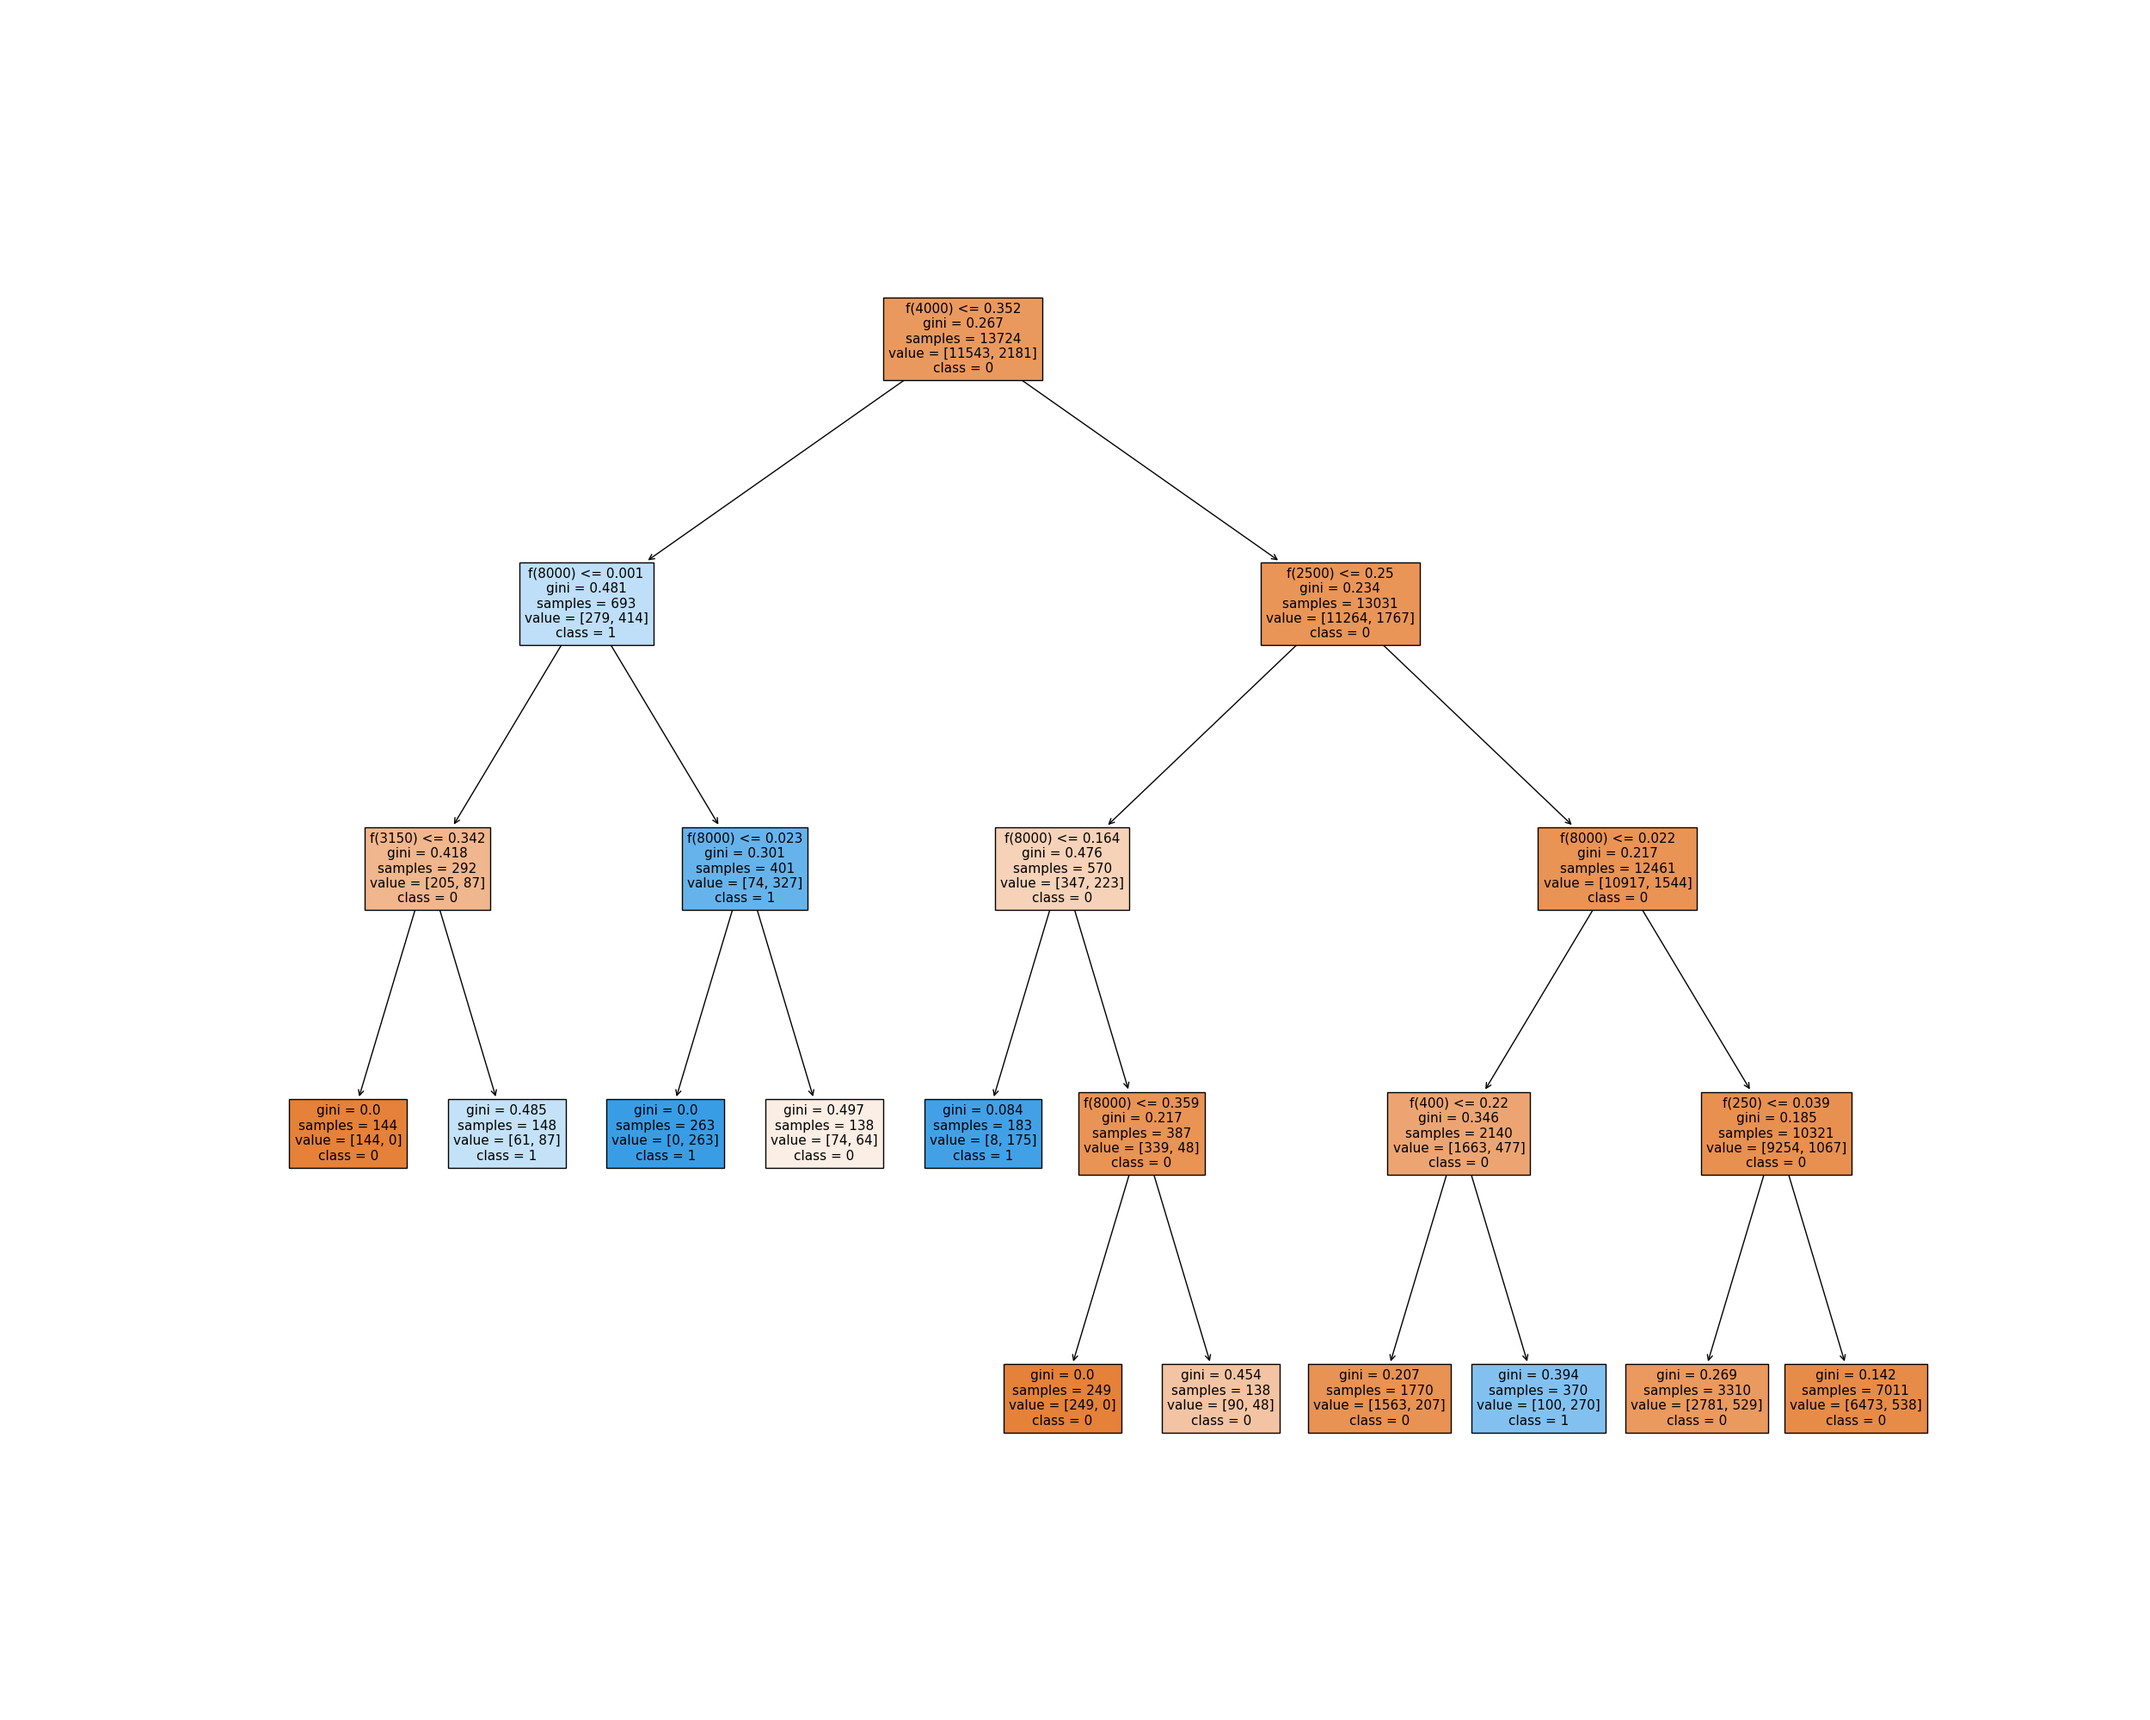
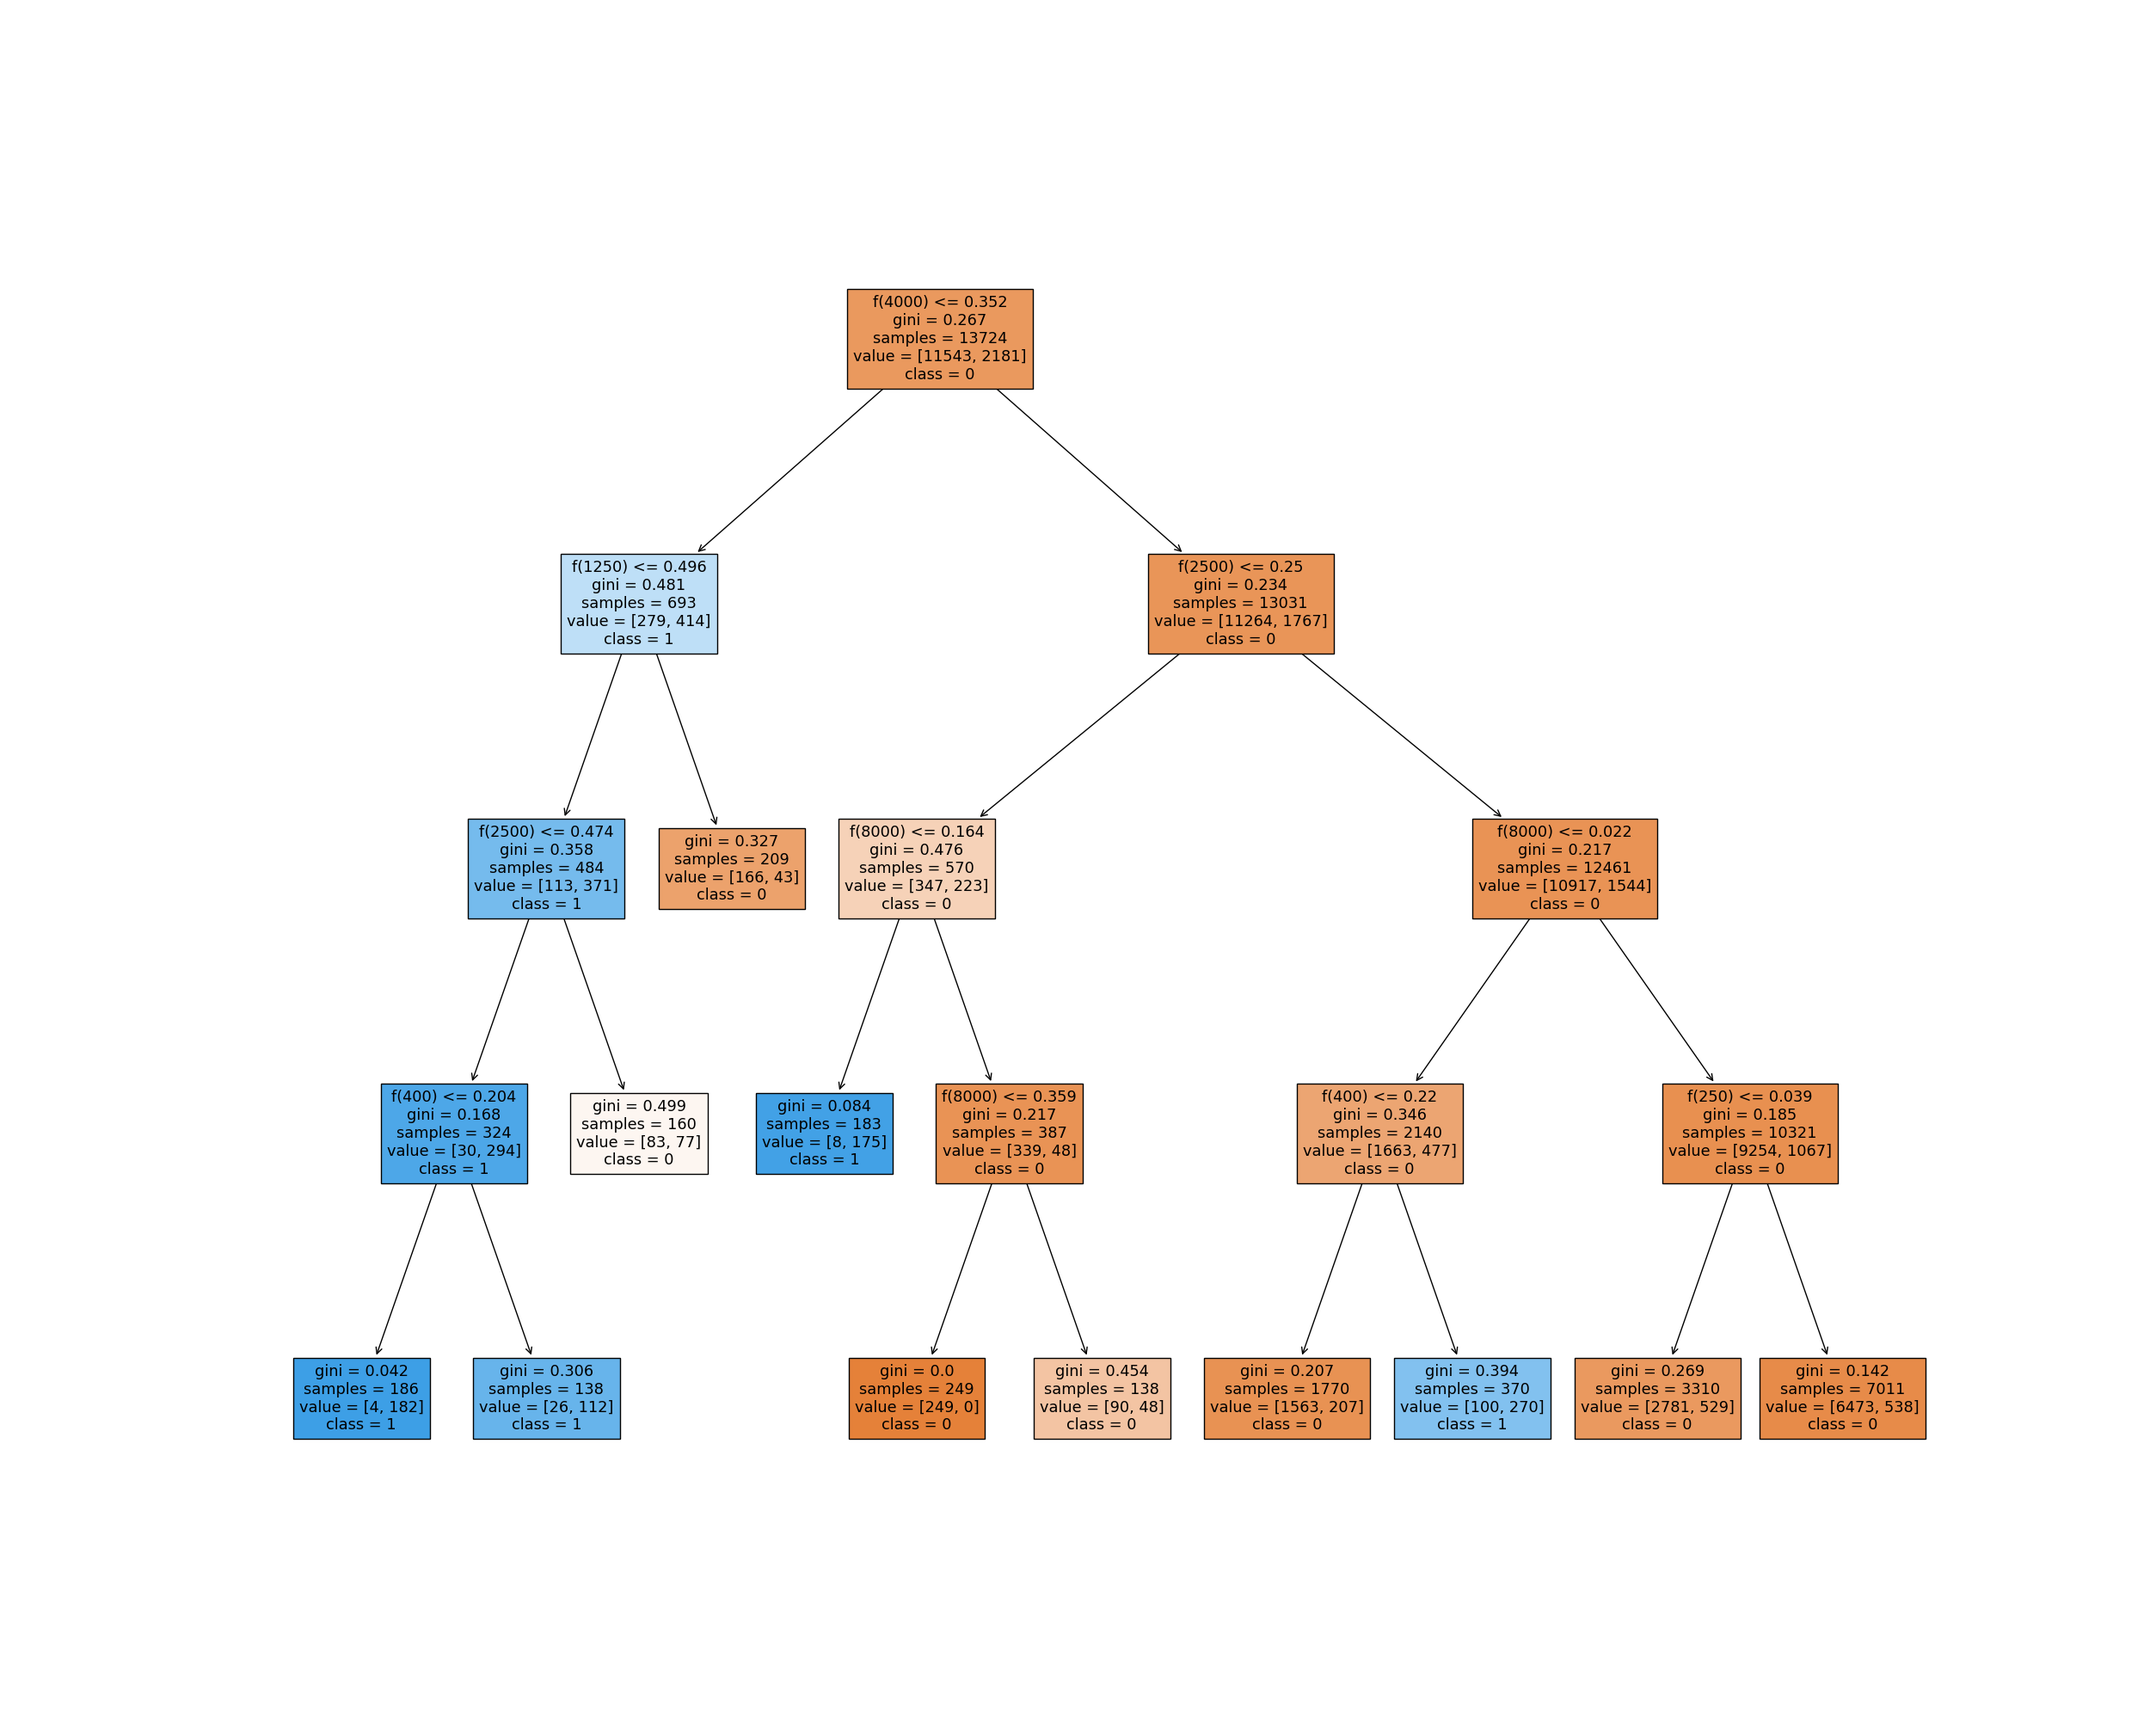
feature importances and tree update

diff --git a/daniel/modelling.py b/daniel/modelling.py
@@ -1,6 +1,8 @@
+import numpy as np
 from sklearn import tree
 import matplotlib.pyplot as plt
 from sklearn.tree import DecisionTreeClassifier
+from sklearn.model_selection import cross_validate
 import beluga
 from imblearn.over_sampling import SMOTE
 from tyty import pipeline
@@ -19,6 +21,17 @@ def predicting(trained_model, test_data):
     Performs predictions on the test set with the trained model
     """
     return trained_model.predict(test_data)
+
+
+def show_importances(model, train_data, threshold=0.0):
+    """ Returns the features that have an importance greater than the threshold """
+    importances = [
+        (feature, round(importance, 4))
+        for feature, importance in zip(train_data.columns, model.feature_importances_)
+        if importance > threshold
+    ]
+    importances.sort(key=lambda x: x[1], reverse=True)
+    return [imp[0] for imp in importances]
 
 
 def save_tree(trained_model, features, path):
@@ -44,6 +57,12 @@ def run_decision_tree(features, all_freq, depth, splits, leaves, pressure, smote
         min_samples_split=splits,
         min_samples_leaf=leaves,
     )
+    scores = cross_validate(
+        model, train_data, train_labels, cv=10, return_train_score=True
+    )
+    print(np.mean(scores["train_score"]))
+    print(np.mean(scores["test_score"]))
+
     train_pred, test_pred, trained_model = pipeline.modelling_pipeline(
         model, train_data, train_labels, test_data
     )
@@ -54,15 +73,9 @@ def run_decision_tree(features, all_freq, depth, splits, leaves, pressure, smote
     beluga.metrics.summary(test_labels, test_pred, conditions=True)
     save_tree(trained_model, train_data.columns, path=path)
 
-    importances = [
-        (feature, round(importance, 4))
-        for feature, importance in zip(
-            train_data.columns, trained_model.feature_importances_
-        )
-        if importance > 0.0
-    ]
+    new_features = show_importances(trained_model, train_data)
+
     print("--- IMPORTANCES ---")
-    print(sorted(importances, key=lambda x: x[1], reverse=True))
-    new_features = [imp[0] for imp in importances]
+    print(new_features)
 
     return trained_model, new_features

diff --git a/daniel/develop.py b/daniel/develop.py
@@ -9,23 +9,23 @@ pd.set_option("display.max_rows", None)
 np.random.seed(24)
 
 trained_model, new_features = modelling.run_decision_tree(
-    ["Gender"],
-    all_freq=True,
-    depth=4,
+    ["f(8000)", "f(4000)", "f(1250)", "f(400)", "f(2500)"],
+    all_freq=False,
+    depth=5,
     splits=0.01,
     leaves=0.01,
     pressure=False,
     smote=False,
-    path="daniel/decision_treeSMOTE.png",
+    path="daniel/decision_treeSMOTE_5.png",
 )
-for i in range(3):
-    trained_model, new_features = modelling.run_decision_tree(
-        new_features,
-        all_freq=False,
-        depth=4,
-        splits=0.01,
-        leaves=0.01,
-        pressure=False,
-        smote=False,
-        path="daniel/decision_treeSMOTE" + str(i) + ".png",
-    )
+# for i in range(3):
+#     trained_model, new_features = modelling.run_decision_tree(
+#         new_features,
+#         all_freq=False,
+#         depth=4,
+#         splits=0.01,
+#         leaves=0.01,
+#         pressure=False,
+#         smote=False,
+#         path="daniel/decision_treeSMOTE" + str(i) + ".png",
+#     )

diff --git a/daniel/processing.py b/daniel/processing.py
@@ -125,8 +125,8 @@ def subject_train_test_split(data, test_percent=20):
     Splits the data so each subject is in either the train or the test set but not both
     """
     num_subs = np.unique(data["Subject"])
-    train_num = len(num_subs) * test_percent // 100
-    train_subs = np.random.choice(num_subs, train_num)
-    train_data = data[~data["Subject"].isin(train_subs)]
-    test_data = data[data["Subject"].isin(train_subs)]
+    test_num = len(num_subs) * test_percent // 100
+    test_subs = np.random.choice(num_subs, test_num)
+    train_data = data[~data["Subject"].isin(test_subs)]
+    test_data = data[data["Subject"].isin(test_subs)]
     return train_data, test_data

diff --git a/tyty/preparation.py b/tyty/preparation.py
@@ -38,10 +38,10 @@ def subject_train_test_split(data, test_percent=20):
     - Daniel
     """
     num_subs = np.unique(data["Subject"])
-    train_num = len(num_subs) * test_percent // 100
-    train_subs = np.random.choice(num_subs, train_num)
-    train_data = data[~data["Subject"].isin(train_subs)]
-    test_data = data[data["Subject"].isin(train_subs)]
+    test_num = len(num_subs) * test_percent // 100
+    test_subs = np.random.choice(num_subs, test_num)
+    train_data = data[~data["Subject"].isin(test_subs)]
+    test_data = data[data["Subject"].isin(test_subs)]
     return train_data, test_data
 
 

diff --git a/tyty/modelling.py b/tyty/modelling.py
@@ -17,3 +17,19 @@ def predicting(trained_model, data):
     - Daniel
     """
     return trained_model.predict(data)
+
+
+def show_importances(model, train_data, threshold=0.0):
+    """
+    Returns the features that have an importance greater than the threshold
+
+    Contributors:
+    - Daniel
+    """
+    importances = [
+        (feature, round(importance, 4))
+        for feature, importance in zip(train_data.columns, model.feature_importances_)
+        if importance > threshold
+    ]
+    importances.sort(key=lambda x: x[1], reverse=True)
+    return [imp[0] for imp in importances]

diff --git a/meetings/developer/20210913-meeting.md b/meetings/developer/20210913-meeting.md
@@ -1,0 +1,23 @@
+# Developer Meeting 8
+
+### 13 September 2021 - 12:00 PM
+
+### Attendees
+
+- Di Yao
+- Karan Rebello
+- Anitha Raghupathy
+- Aminul Islam
+- Nian Cheng
+- Daniel Chegwidden
+
+### Agenda:
+
+- Discuss Model progress
+
+### Minutes:
+
+Discuss model progress
+- discussed where everyone is up to in their modelling
+- Deciding on SVM, DT, and RF as the potential models
+- Last tweaks this week before choosing model in the netx meeting
